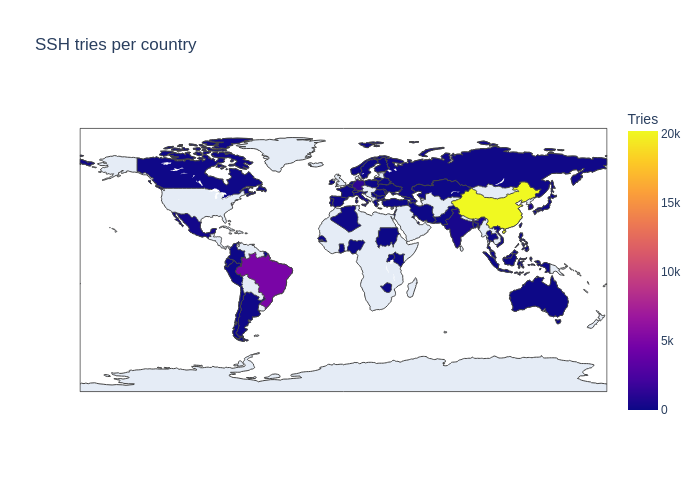
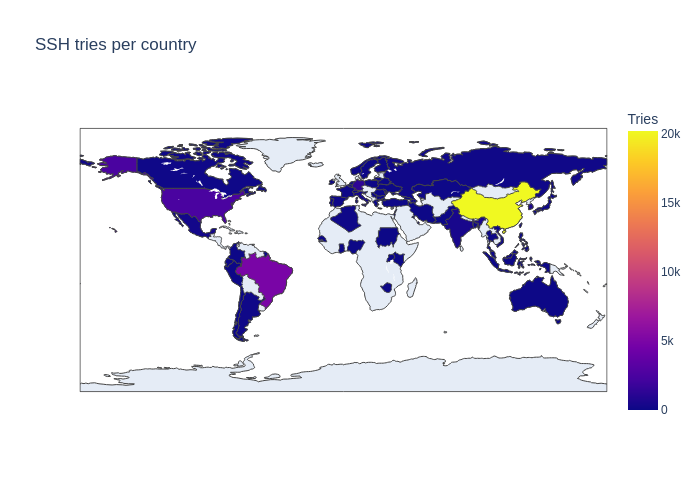
fix

Changed region(s): [[0.21, 0.36, 0.36, 0.45], [0.12, 0.3, 0.21, 0.36]]

diff --git a/choroplat.py b/choroplat.py
@@ -13,6 +13,8 @@ listas = bigstring.split("\n")
 for i in listas:
     temp = i.strip().split(" ")
     if len(temp) > 1:
+        if temp[1]=='United':
+            temp[1]='USA'
         if temp[1] != "can't":
             data.append([temp[1],int(temp[0])])
 
